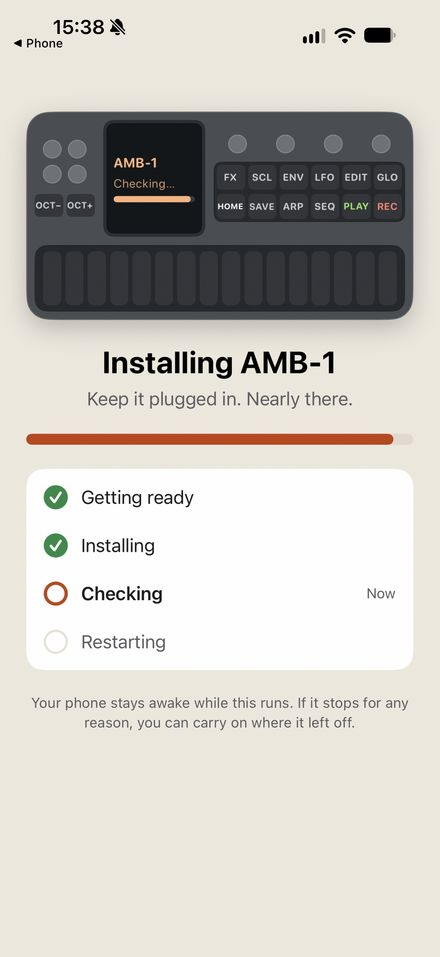
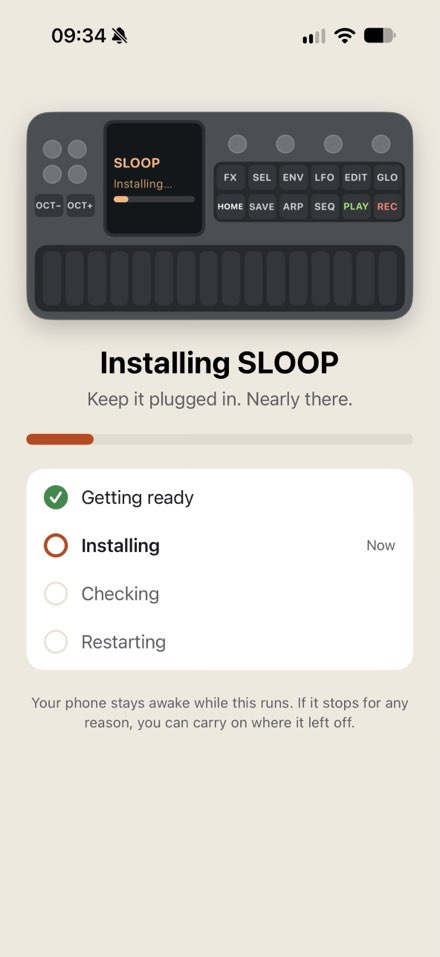
Show a new install in FM-SWITCH's screenshots, from start to restart
Two photos from Drew's phone replace the old installing screenshot, with
the drawn FM-1's SEL key: SLOOP just installing, and nearly done.

Claude-Session: https://claude.ai/code/session_01HsxeMLrGTSbcURZLFAdN4D

diff --git a/fm-switch/index.html b/fm-switch/index.html
@@ -152,8 +152,14 @@
       </li>
       <li>
         <figure>
-          <img src="screens/installing-light.jpg" alt="Installing AMB-1: the progress bar, with Getting ready and Installing done and Checking now." width="440" height="957" loading="lazy">
+          <img src="screens/installing-light.jpg" alt="Installing SLOOP: the drawn FM-1's screen and the progress bar just started, with Getting ready done and Installing now." width="440" height="957" loading="lazy">
           <figcaption>Installing</figcaption>
+        </figure>
+      </li>
+      <li>
+        <figure>
+          <img src="screens/restarting-light.jpg" alt="Installing SLOOP, nearly done: the progress bar almost full, with Getting ready, Installing and Checking done and Restarting now." width="440" height="957" loading="lazy">
+          <figcaption>Restarting</figcaption>
         </figure>
       </li>
       <li>
